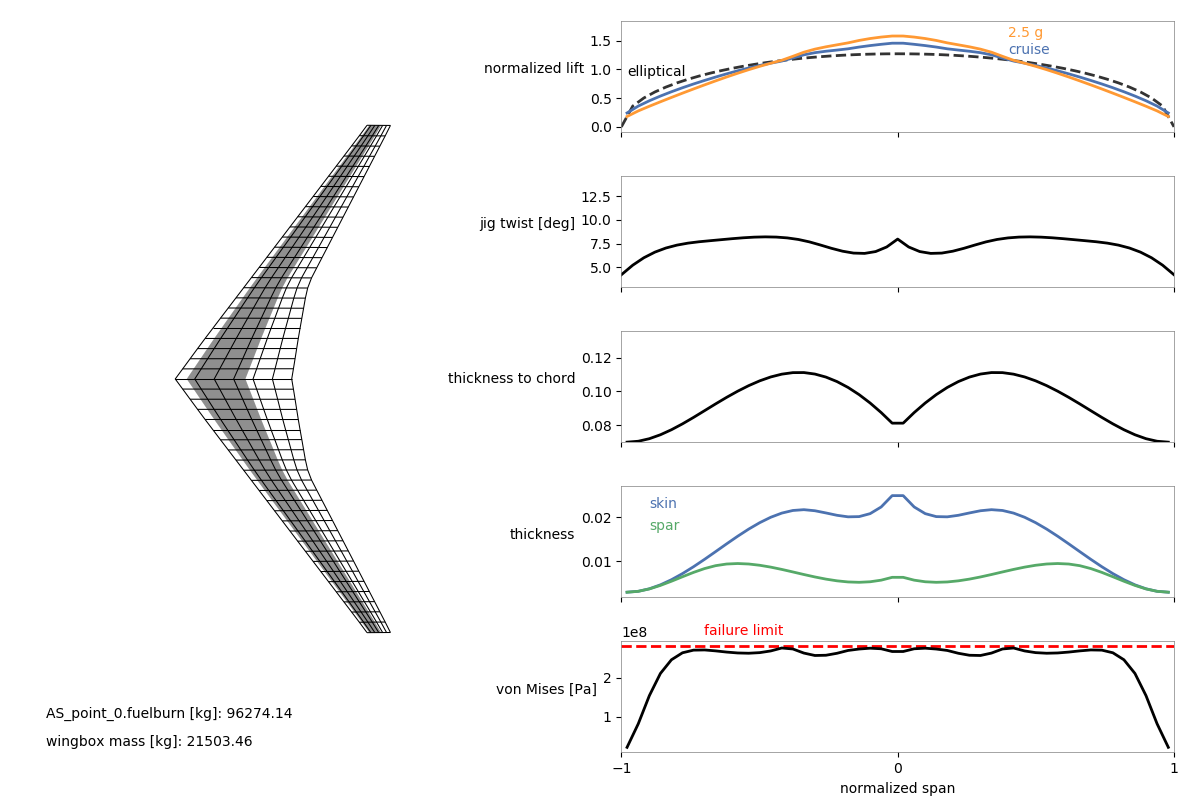
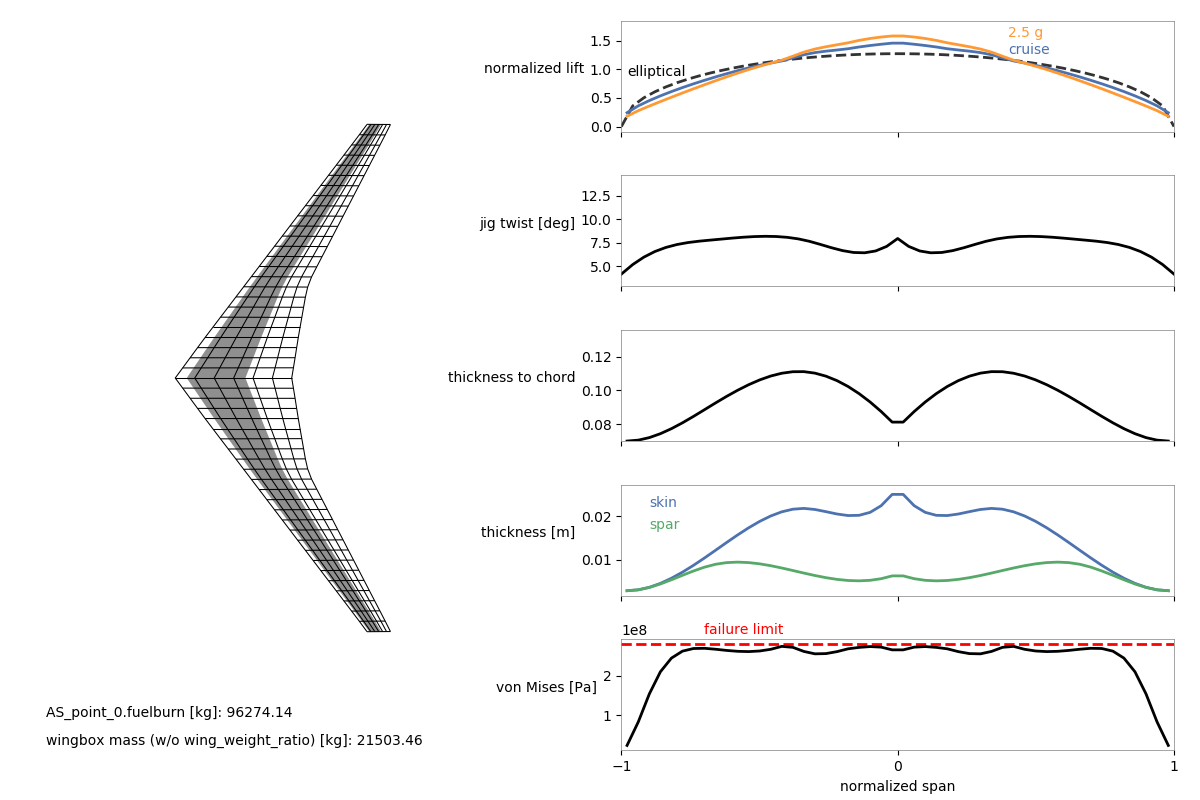
wingbox docs

diff --git a/openaerostruct/utils/plot_wingbox.py b/openaerostruct/utils/plot_wingbox.py
@@ -499,7 +499,7 @@ class Display(object):
             self.ax4.locator_params(axis='x',nbins=3)
             self.ax4.set_ylim([self.min_t, self.max_t])
             self.ax4.set_xlim([-1, 1])
-            self.ax4.set_ylabel('thickness', rotation="horizontal", ha="right")
+            self.ax4.set_ylabel('thickness [m]', rotation="horizontal", ha="right")
 
             self.ax6.cla()
             self.ax6.locator_params(axis='y',nbins=4)
@@ -704,7 +704,7 @@ class Display(object):
             sw_val = self.struct_weights[self.curr_pos] / wing_weight_ratio / 9.80665
             self.ax.text2D(.05, -.1, self.obj_key + ' [kg]: {}'.format(obj_val),
                 transform=self.ax.transAxes, color='k')
-            self.ax.text2D(.05, -.15, 'wingbox mass' + ' [kg]: {}'.format(sw_val),
+            self.ax.text2D(.05, -.15, 'wingbox mass (w/o wing_weight_ratio)' + ' [kg]: {}'.format(sw_val),
                 transform=self.ax.transAxes, color='k')
 
         self.ax.view_init(elev=el, azim=az)  # Reproduce view

diff --git a/openaerostruct/docs/more_examples/wingbox.rst b/openaerostruct/docs/more_examples/wingbox.rst
@@ -14,7 +14,7 @@ This page breaks down and describes an example optimization run-script that uses
 This example uses the same optimization problem used for the paper linked above, but with fewer design variables and a coarser mesh.
 The wing being optimized is based on the undeflected Common Research Model (uCRM), which is a long-range transport aircraft.
 A script to replicate the optimization problems described in the paper can be found in the examples directory (openaerostruct/examples/run_aerostruct_uCRM_multipoint.py).
-Please contact Shamsheer Chauhan (sschau@umich.edu) with an questions you have after reading the above paper and going throught this example.
+Please contact Shamsheer Chauhan (sschau@umich.edu) with any questions you have after reading the above paper and going through this example.
 
 The goal of the wingbox model is to allow more realistic preliminary structural sizing for commuter to long-range transport-type aircraft which typically have wingbox structures.
 Since more realistic sizing is one of the goals of the wingbox model, this example also shows how to use it with a multipoint optimization.
@@ -53,9 +53,9 @@ We use a very coarse mesh for this example to keep the computational time low.
 The `generate_mesh` function takes the inputs from the mesh dictionary and returns the mesh as well as values for the B-spline control points for the twist distribution (we specify the number of control points for this using `num_twist_cp` in the dictionary).
 Note that in this example we don't end up using this twist distribution, but instead use a better starting twist distribution which will be seen later.
 
- .. literalinclude:: ../wingbox_mpt_opt_example.py
-    :start-after: #docs section 2 begin
-    :end-before: #docs section 2 end
+.. literalinclude:: ../wingbox_mpt_opt_example.py
+  :start-after: #docs section 2 begin
+  :end-before: #docs section 2 end
 
 Next, we create a surface dictionary and provide necessary information for our lifting surface.
 After providing the relevant information for the `name`, `symmetry`, and `S_ref_type` settings, we provide the mesh and specify the string `'wingbox'` for the `fem_model_type` (if we wanted the tubular structure, we would specify `'tube'` instead).
@@ -291,7 +291,7 @@ Now we put the code together, run it, and see the output:
     openaerostruct.docs.wingbox_mpt_opt_example
     :layout: interleave
 
-The following are the visualization results for this problem (with the optimizer tolerance changed to 1e-8) using the `plot_wingbox.py` visualization script (located in the `utils` directory).
+The following are the visualization results for this problem using the `plot_wingbox.py` visualization script (located in the `utils` directory).
 This visualization script requires the `.db` file as an argument.
 For example, to use it for this example problem, from the example script's (wingbox_mpt_opt_example.py) location in the OpenAeroStruct `docs` directory, we would use:
 
